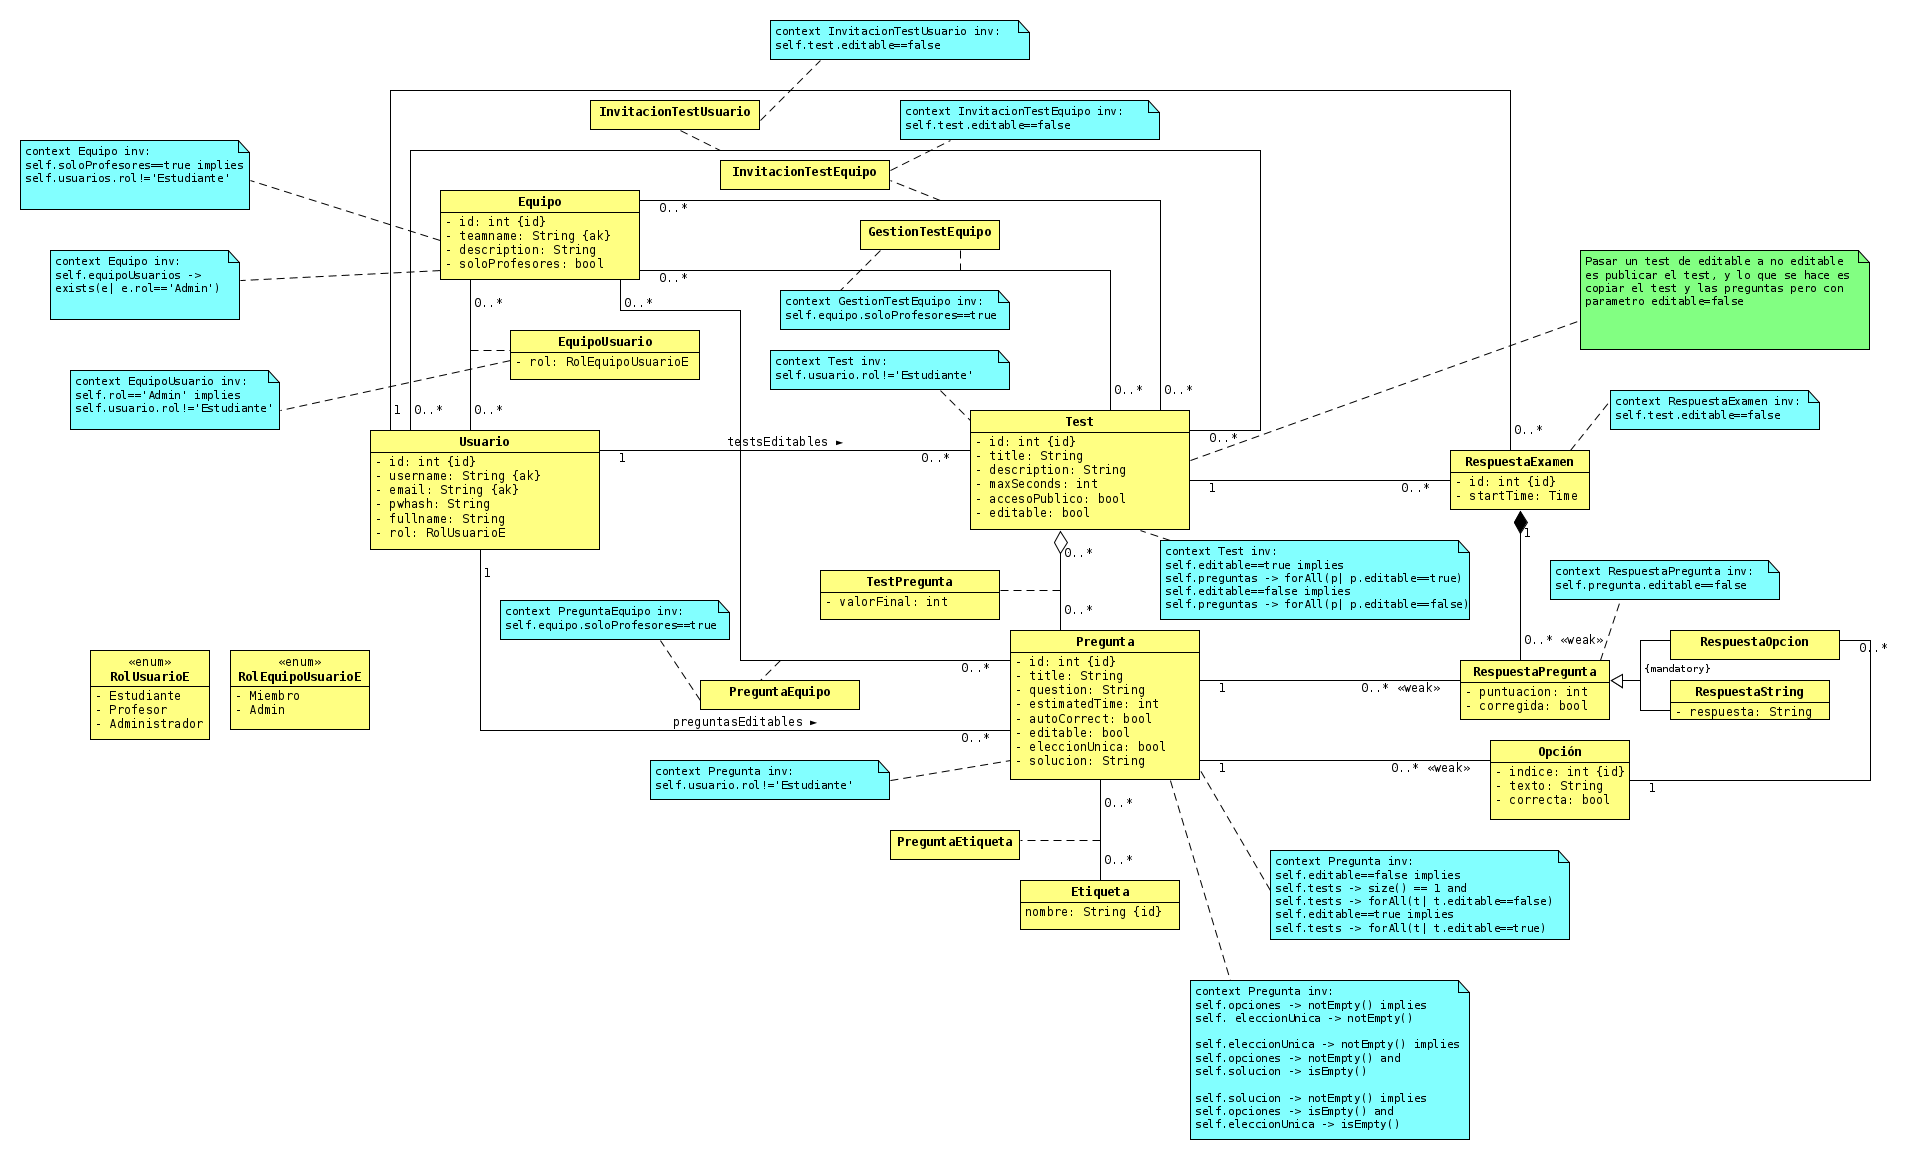
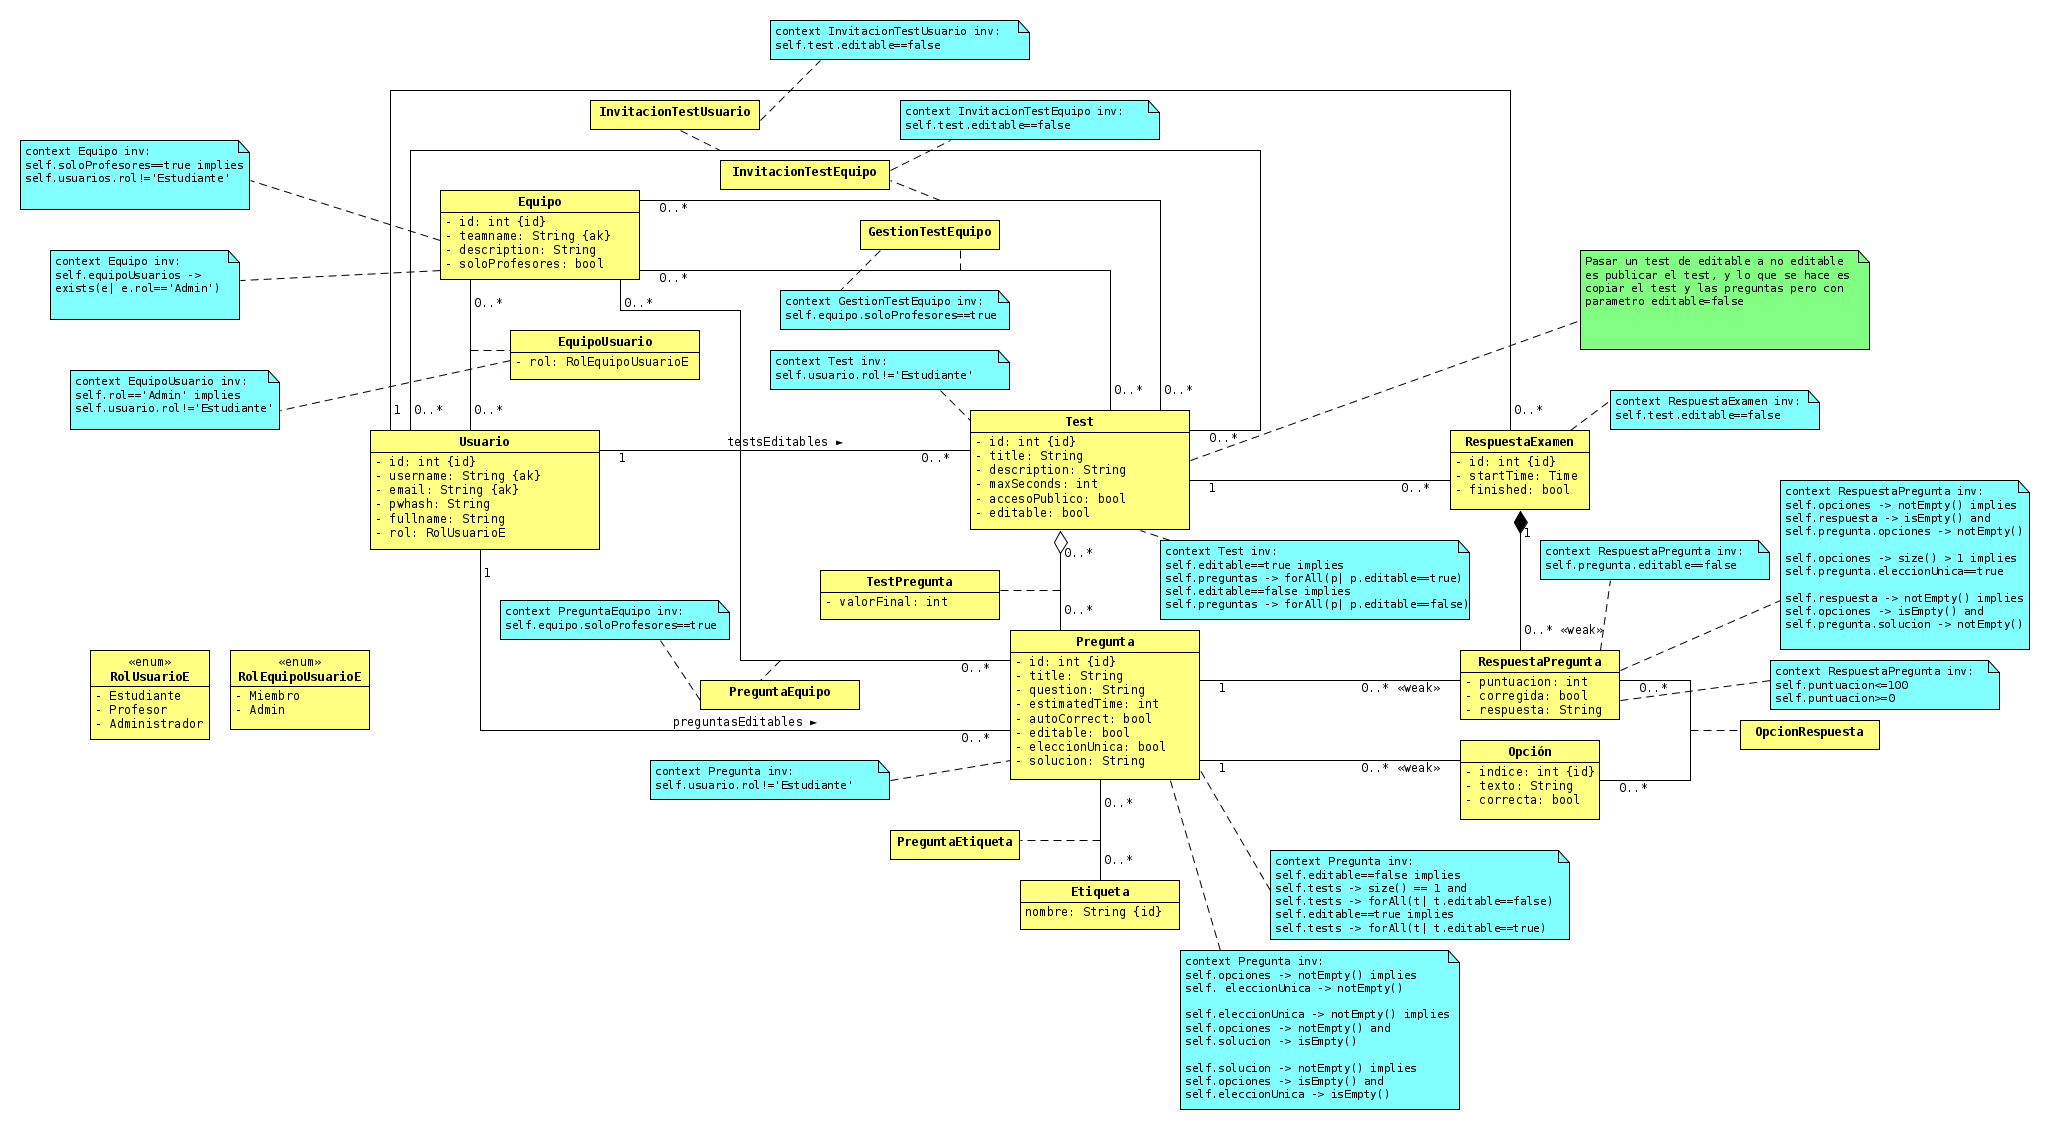
cambio opcion y opcion-respuesta, no tested

Changed region(s): [[0.0, 0.0, 1.0, 0.9912], [0.0312, 0.5575, 0.2188, 0.6814], [0.0, 0.0929, 0.1562, 0.1858]]

diff --git a/BackEnd/persistence/dao/questioanswerdao.go b/BackEnd/persistence/dao/questioanswerdao.go
@@ -6,6 +6,7 @@ package dao
 
 import (
 	"database/sql"
+	"errors"
 	"log"
 	"uva-devtest/models"
 
@@ -15,13 +16,13 @@ import (
 
 func ToModelQuestionAnswer(q *QuestionAnswer) *models.QuestionAnswer {
 	mq := &models.QuestionAnswer{
-		IDPregunta:   q.IDPregunta,
-		IDRespuesta:  q.IDRespuesta,
-		IndiceOpcion: q.IndiceOpcion,
-		Respuesta:    q.Respuesta,
-		Corregida:    q.Corregida,
-		Puntuacion:   q.Puntuacion,
+		IDPregunta:  q.IDPregunta,
+		IDRespuesta: q.IDRespuesta,
+		Respuesta:   q.Respuesta,
+		Corregida:   q.Corregida,
+		Puntuacion:  q.Puntuacion,
 	}
+	mq.IndicesOpciones = append(mq.IndicesOpciones, q.IndicesOpciones...)
 	return mq
 }
 
@@ -42,7 +43,7 @@ func rowsToQuestionAnswers(rows *sql.Rows) ([]*QuestionAnswer, error) {
 	var qas []*QuestionAnswer
 	for rows.Next() {
 		var qa QuestionAnswer
-		err := rows.Scan(&qa.IDRespuesta, &qa.IDPregunta, &qa.Puntuacion, &qa.Corregida, &qa.IndiceOpcion, &qa.Respuesta)
+		err := rows.Scan(&qa.IDRespuesta, &qa.IDPregunta, &qa.Puntuacion, &qa.Corregida, &qa.Respuesta)
 		if err != nil {
 			log.Print(err)
 			return qas, err
@@ -64,4 +65,41 @@ func rowsToQuestionAnswer(rows *sql.Rows) (*QuestionAnswer, error) {
 		question = questions[0]
 	}
 	return question, err
+}
+
+func addOptionsChosen(db *sql.DB, qa *QuestionAnswer) error {
+	var opts []*Option
+	var err error
+	opts, err = GetOptionsQuestionAnswer(db, qa)
+	if err == nil {
+		for _, opt := range opts {
+			qa.IndicesOpciones = append(qa.IndicesOpciones, opt.Indice)
+		}
+	}
+	return err
+}
+
+func GetQuestionAnswersFromPTestQuestion(db *sql.DB, testid int64, questionid int64) ([]*QuestionAnswer, error) {
+	if db == nil {
+		return nil, errors.New(errorDBNil)
+	}
+	var qas []*QuestionAnswer
+	query, err := db.Prepare("SELECT * FROM RespuestaPregunta WHERE preguntaid=? AND respuestaExamenid=?")
+	if err == nil {
+		defer query.Close()
+		rows, err := query.Query(questionid, testid)
+		if err == nil {
+			qas, err = rowsToQuestionAnswers(rows)
+			if err == nil {
+				for _, qa := range qas {
+					err = addOptionsChosen(db, qa)
+					if err != nil {
+						return nil, err
+					}
+				}
+			}
+			return qas, err
+		}
+	}
+	return nil, err
 }

diff --git a/BackEnd/restapi/embedded_spec.go b/BackEnd/restapi/embedded_spec.go
@@ -5119,12 +5119,12 @@ func init() {
     "Option": {
       "type": "object",
       "required": [
-        "texto",
-        "correcta"
+        "texto"
       ],
       "properties": {
         "correcta": {
           "type": "boolean",
+          "default": false,
           "example": false
         },
         "indice": {
@@ -5258,9 +5258,11 @@ func init() {
           "type": "integer",
           "example": 1
         },
-        "indiceOpcion": {
-          "type": "integer",
-          "example": 1
+        "indicesOpciones": {
+          "type": "array",
+          "items": {
+            "type": "integer"
+          }
         },
         "puntuacion": {
           "type": "integer",
@@ -11524,12 +11526,12 @@ func init() {
     "Option": {
       "type": "object",
       "required": [
-        "texto",
-        "correcta"
+        "texto"
       ],
       "properties": {
         "correcta": {
           "type": "boolean",
+          "default": false,
           "example": false
         },
         "indice": {
@@ -11664,9 +11666,11 @@ func init() {
           "type": "integer",
           "example": 1
         },
-        "indiceOpcion": {
-          "type": "integer",
-          "example": 1
+        "indicesOpciones": {
+          "type": "array",
+          "items": {
+            "type": "integer"
+          }
         },
         "puntuacion": {
           "type": "integer",

diff --git a/BackEnd/persistence/dao/optiondao.go b/BackEnd/persistence/dao/optiondao.go
@@ -33,6 +33,26 @@ func ToModelOptions(os []*Option) []*models.Option {
 	return mos
 }
 
+func ToModelOptionNoCorrect(o *Option) *models.Option {
+	bfalse := false
+	mo := &models.Option{
+		Correcta:   &bfalse,
+		Indice:     o.Indice,
+		Preguntaid: o.Preguntaid,
+		Texto:      o.Texto,
+	}
+	return mo
+}
+
+func ToModelOptionsNoCorrect(os []*Option) []*models.Option {
+	var mos = []*models.Option{}
+	for _, itemCopy := range os {
+		mo := ToModelOptionNoCorrect(itemCopy)
+		mos = append(mos, mo)
+	}
+	return mos
+}
+
 func rowsToOptions(rows *sql.Rows) ([]*Option, error) {
 	var options []*Option
 	for rows.Next() {
@@ -133,4 +153,21 @@ func DeleteOption(db *sql.DB, questionid int64, optionindex int64) error {
 		_, err = query.Exec(questionid, optionindex)
 	}
 	return err
+}
+
+func GetOptionsQuestionAnswer(db *sql.DB, qa *QuestionAnswer) ([]*Option, error) {
+	if db == nil {
+		return nil, errors.New(errorDBNil)
+	}
+	var os []*Option
+	query, err := db.Prepare("SELECT O.* FROM Opcion O JOIN OpcionRespuesta R ON O.indice=R.opcionindice AND O.preguntaid=R.preguntaid WHERE R.preguntaid=? AND R.respuestaExamenid=?")
+	if err == nil {
+		defer query.Close()
+		rows, err := query.Query(qa.IDPregunta, qa.IDRespuesta)
+		if err == nil {
+			os, err = rowsToOptions(rows)
+			return os, err
+		}
+	}
+	return nil, err
 }

diff --git a/BackEnd/models/option.go b/BackEnd/models/option.go
@@ -21,8 +21,7 @@ type Option struct {
 
 	// correcta
 	// Example: false
-	// Required: true
-	Correcta *bool `json:"correcta"`
+	Correcta *bool `json:"correcta,omitempty"`
 
 	// indice
 	// Example: 1
@@ -42,10 +41,6 @@ type Option struct {
 func (m *Option) Validate(formats strfmt.Registry) error {
 	var res []error
 
-	if err := m.validateCorrecta(formats); err != nil {
-		res = append(res, err)
-	}
-
 	if err := m.validateTexto(formats); err != nil {
 		res = append(res, err)
 	}
@@ -53,15 +48,6 @@ func (m *Option) Validate(formats strfmt.Registry) error {
 	if len(res) > 0 {
 		return errors.CompositeValidationError(res...)
 	}
-	return nil
-}
-
-func (m *Option) validateCorrecta(formats strfmt.Registry) error {
-
-	if err := validate.Required("correcta", "body", m.Correcta); err != nil {
-		return err
-	}
-
 	return nil
 }
 

diff --git a/BackEnd/persistence/dao/publishedtestdao.go b/BackEnd/persistence/dao/publishedtestdao.go
@@ -162,20 +162,3 @@ func GetAnswersFromPTest(db *sql.DB, testid int64) ([]*Answer, error) {
 	}
 	return nil, err
 }
-
-func GetQuestionAnswersFromPTestQuestion(db *sql.DB, testid int64, questionid int64) ([]*QuestionAnswer, error) {
-	if db == nil {
-		return nil, errors.New(errorDBNil)
-	}
-	var qas []*QuestionAnswer
-	query, err := db.Prepare("SELECT * FROM RespuestaPregunta WHERE preguntaid=? AND respuestaExamenid")
-	if err == nil {
-		defer query.Close()
-		rows, err := query.Query(testid)
-		if err == nil {
-			qas, err = rowsToQuestionAnswers(rows)
-			return qas, err
-		}
-	}
-	return nil, err
-}

diff --git a/BackEnd/persistence/dao/daomodels.go b/BackEnd/persistence/dao/daomodels.go
@@ -232,14 +232,13 @@ type QuestionAnswer struct {
 	// Required: true
 	IDPregunta *int64 `json:"idPregunta"`
 
+	// indices opciones
+	IndicesOpciones []int64 `json:"indicesOpciones"`
+
 	// id respuesta
 	// Example: 1
 	// Required: true
 	IDRespuesta *int64 `json:"idRespuesta"`
-
-	// indice opcion
-	// Example: 1
-	IndiceOpcion int64 `json:"indiceOpcion,omitempty"`
 
 	// puntuacion
 	// Example: 1
@@ -258,7 +257,6 @@ type Option struct {
 
 	// correcta
 	// Example: false
-	// Required: true
 	Correcta *bool `json:"correcta"`
 
 	// indice

diff --git a/BackEnd/handlers/published_tests_handler.go b/BackEnd/handlers/published_tests_handler.go
@@ -311,7 +311,7 @@ func GetOptionsPQuestion(params published_test.GetOptionsFromPublishedQuestionPa
 				var os []*dao.Option
 				os, err = dao.GetOptionsQuestion(db, params.Questionid)
 				if err == nil {
-					mos := dao.ToModelOptions(os)
+					mos := dao.ToModelOptionsNoCorrect(os)
 					return published_test.NewGetOptionsFromPublishedQuestionOK().WithPayload(mos)
 				}
 			}

diff --git a/BackEnd/models/question_answer.go b/BackEnd/models/question_answer.go
@@ -34,9 +34,8 @@ type QuestionAnswer struct {
 	// Required: true
 	IDRespuesta *int64 `json:"idRespuesta"`
 
-	// indice opcion
-	// Example: 1
-	IndiceOpcion int64 `json:"indiceOpcion,omitempty"`
+	// indices opciones
+	IndicesOpciones []int64 `json:"indicesOpciones"`
 
 	// puntuacion
 	// Example: 1
